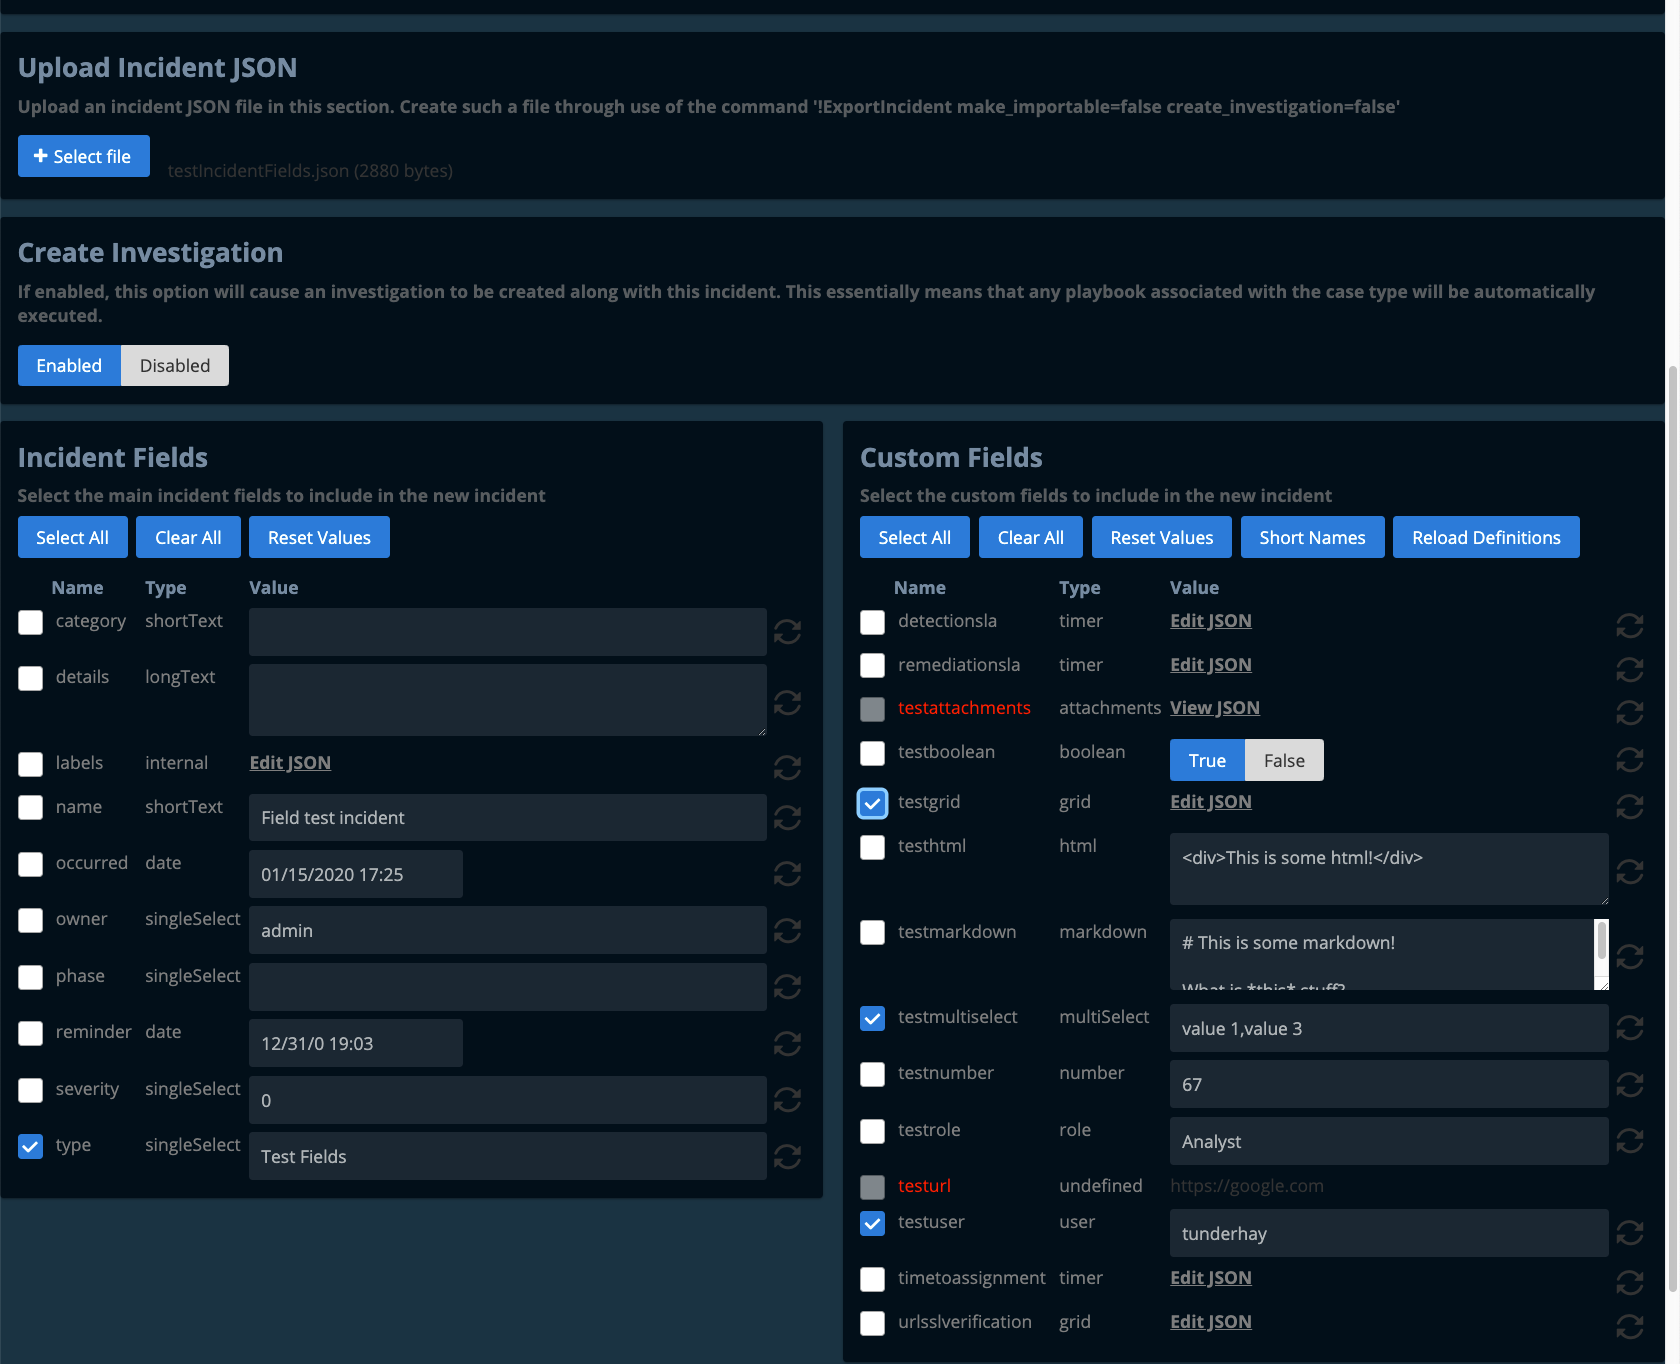
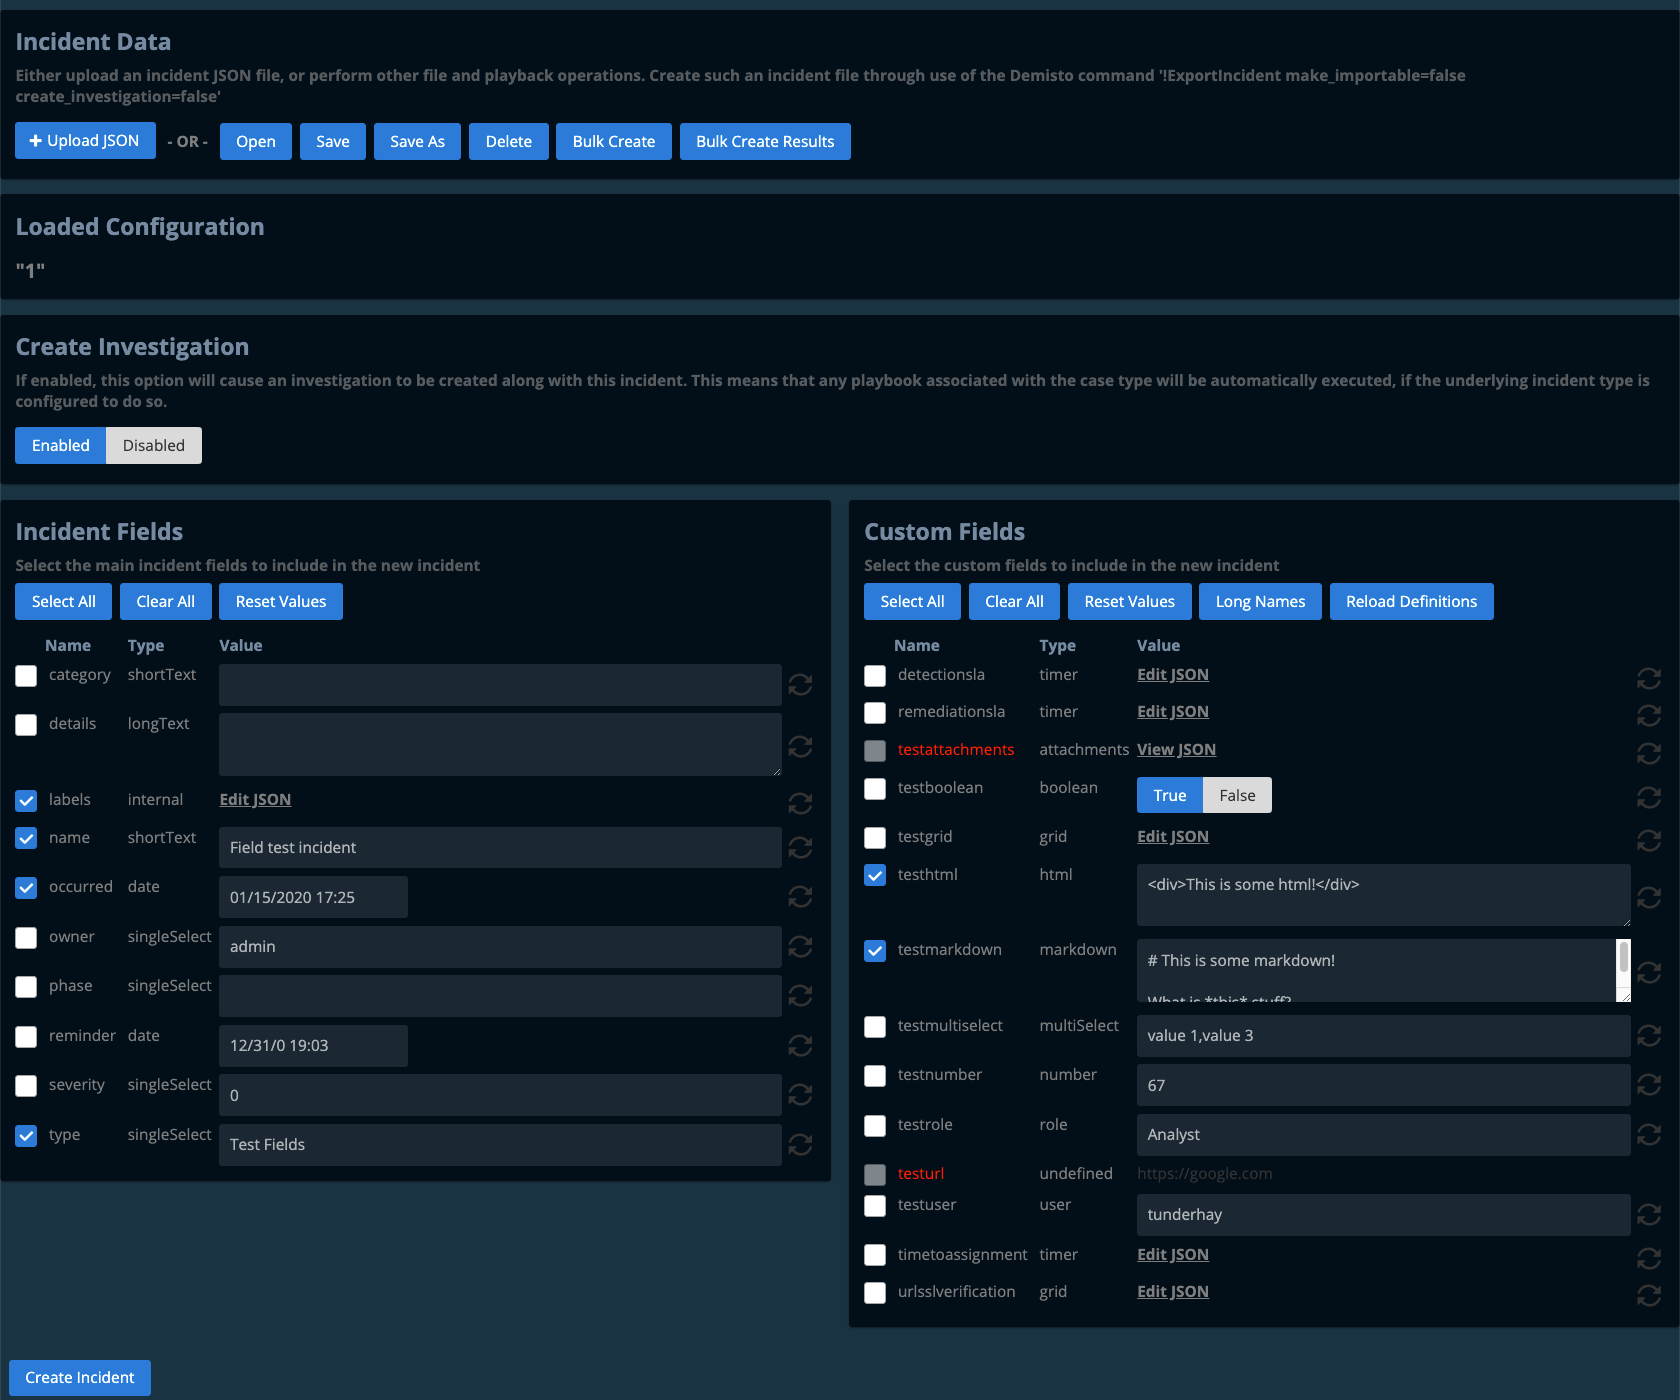
Updated README and associated image

diff --git a/README.md b/README.md
@@ -5,6 +5,8 @@ This web application will import incidents into Demisto over the Demisto REST AP
 - Selection of which incident fields to import.
 - The ability to edit field values, including JSON.
 - It will also prohibit the import of fields which are not defined in Demisto,
+- Bulk incident creation...
+- To one or more Demisto servers
 
 ![Screenshot of the app](content/importer1.png)
 
@@ -12,6 +14,7 @@ This web application will import incidents into Demisto over the Demisto REST AP
 
 - I'm writing/testing a Demisto playbook and I need to create incidents for testing
 - I'm a Demisto SE or SA and I need to easily create demo incidents without the headache of configuring integrations, 3rd-party products, and ingesting the incidents.  As anyone who has tried sending emails for creating demo incidents well knows, this can consume hours of time in mucking about with email security, spam and malware filters, and other bother.
+- I'm running a Demisto workshop or training exercise and need the ability to push incidents to multiple Demisto servers quickly.
 
 ## Exporting an Incident from Demisto
 
@@ -43,7 +46,7 @@ The client is not distributed in pre-built form, so to run it for the first time
 
 ### Demisto API Key
 
-Before this app can be used, An API key must first be generated within Demisto. using `Settings -> Integrations -> API Keys -> Get Your Key`.  Enter this key and the server infornation into the Demisto Parameters section of the app.
+Before this app can be used, An API key must first be generated within Demisto. using `Settings -> Integrations -> API Keys -> Get Your Key`.  Enter this key and the server infornation into the Demisto Servers section of the app.
 
 ## Running the Node.js server
 
@@ -63,4 +66,4 @@ Run `npm run ng -- build` to build the project in development mode (yes, there i
 
 ## Connecting to the Application
 
-Browse to http://yourserver:4002 in your favourite web browser to launch the application.
+Browse to https://yourserver:4002 in your favourite web browser to launch the application.
